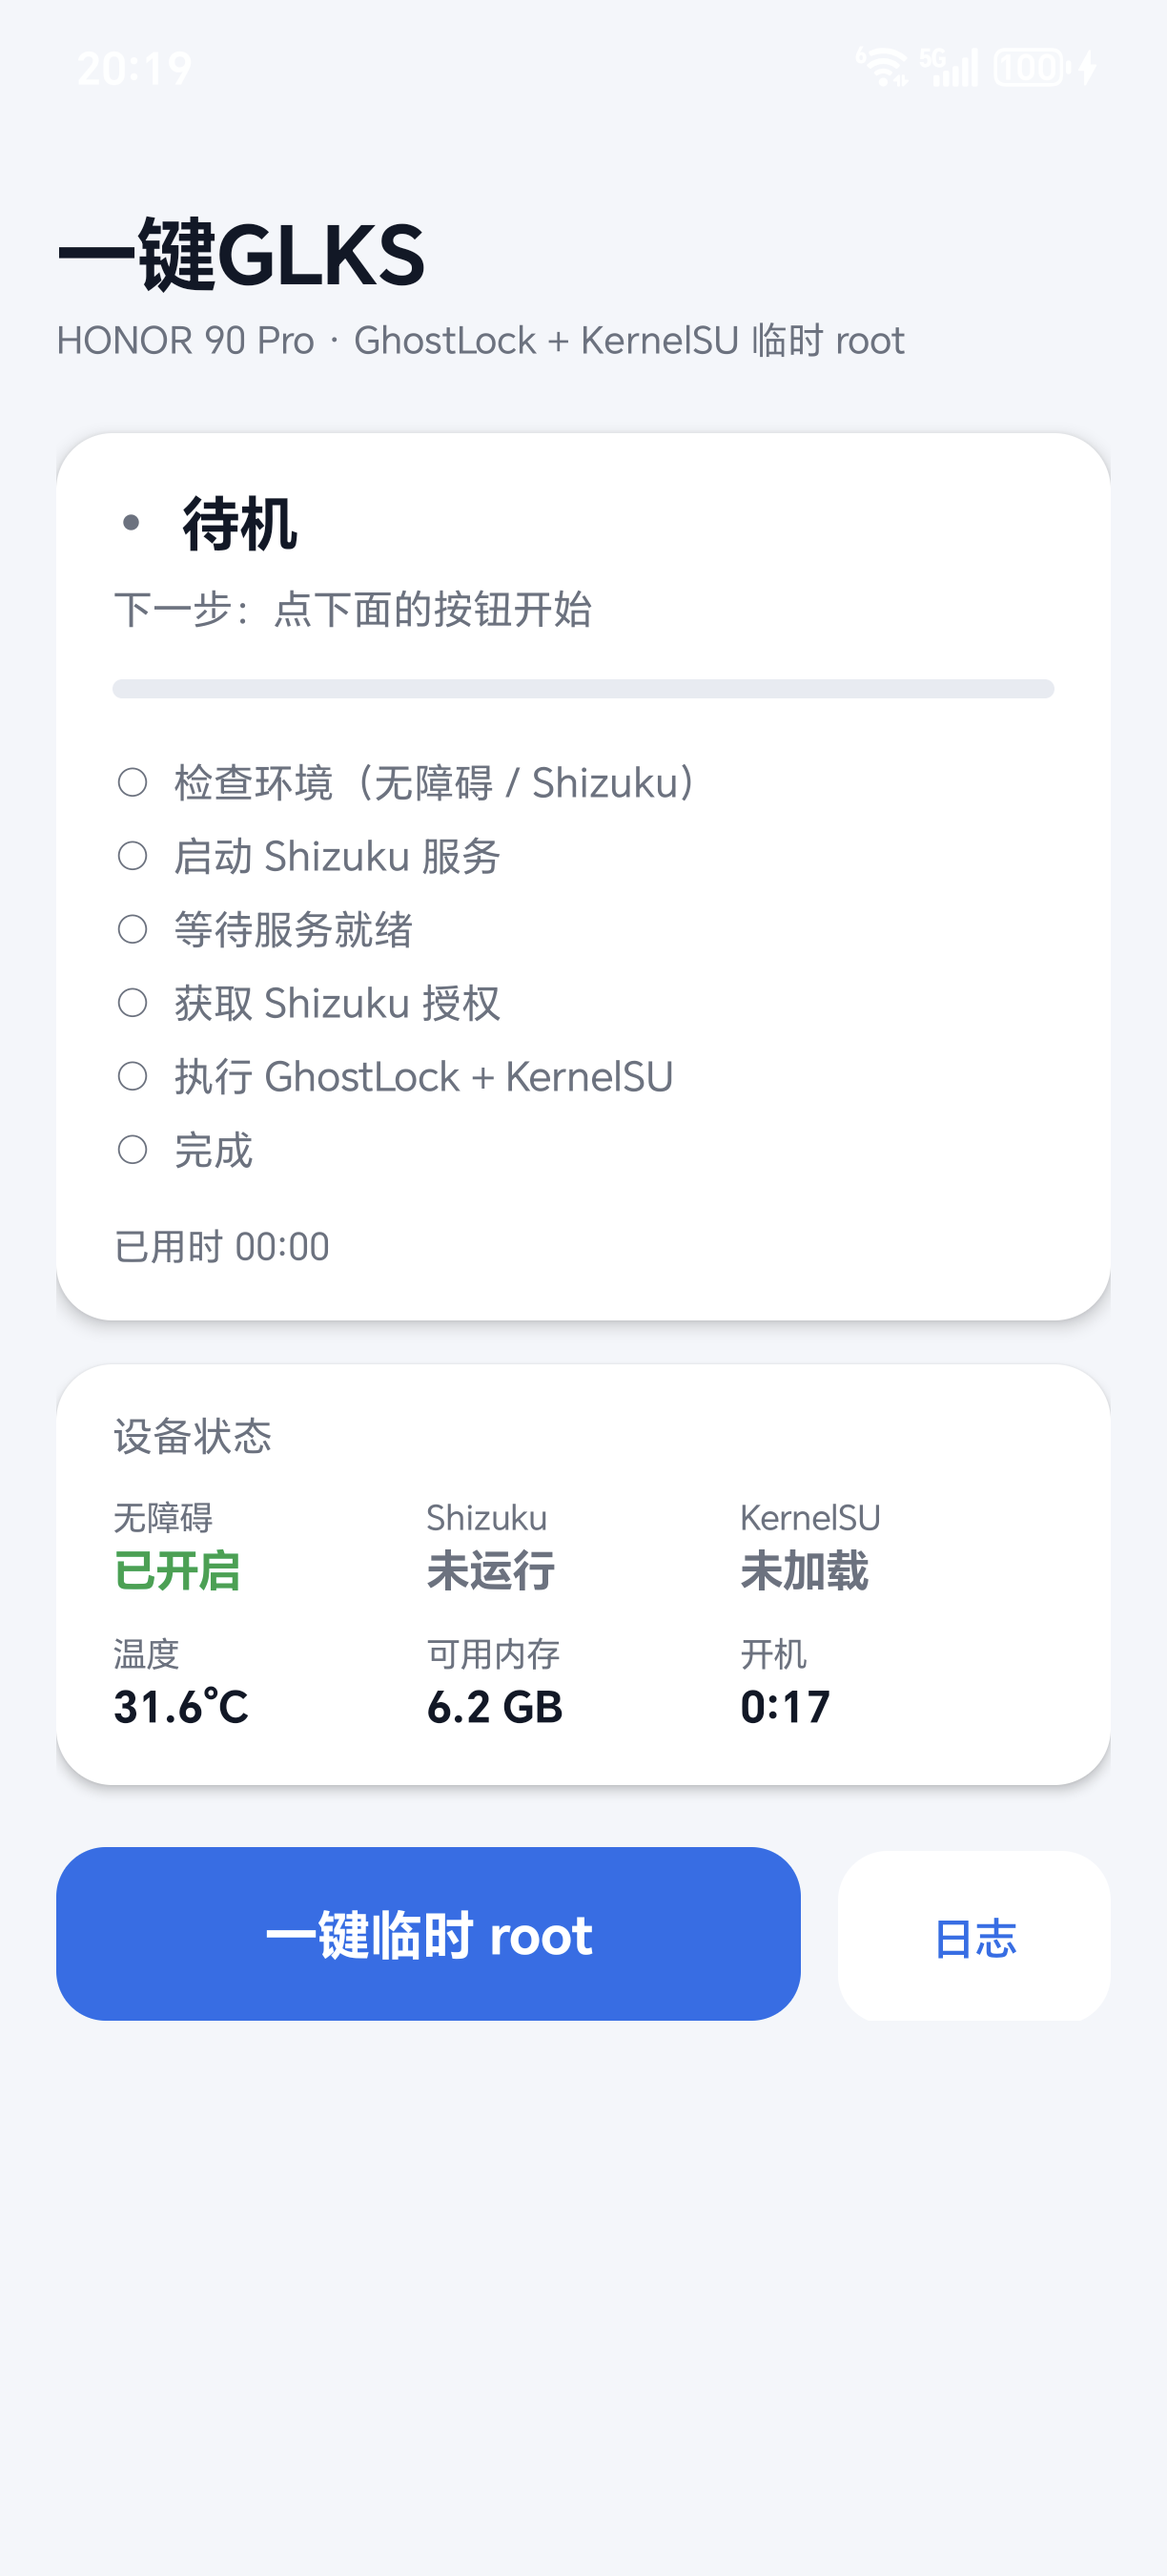
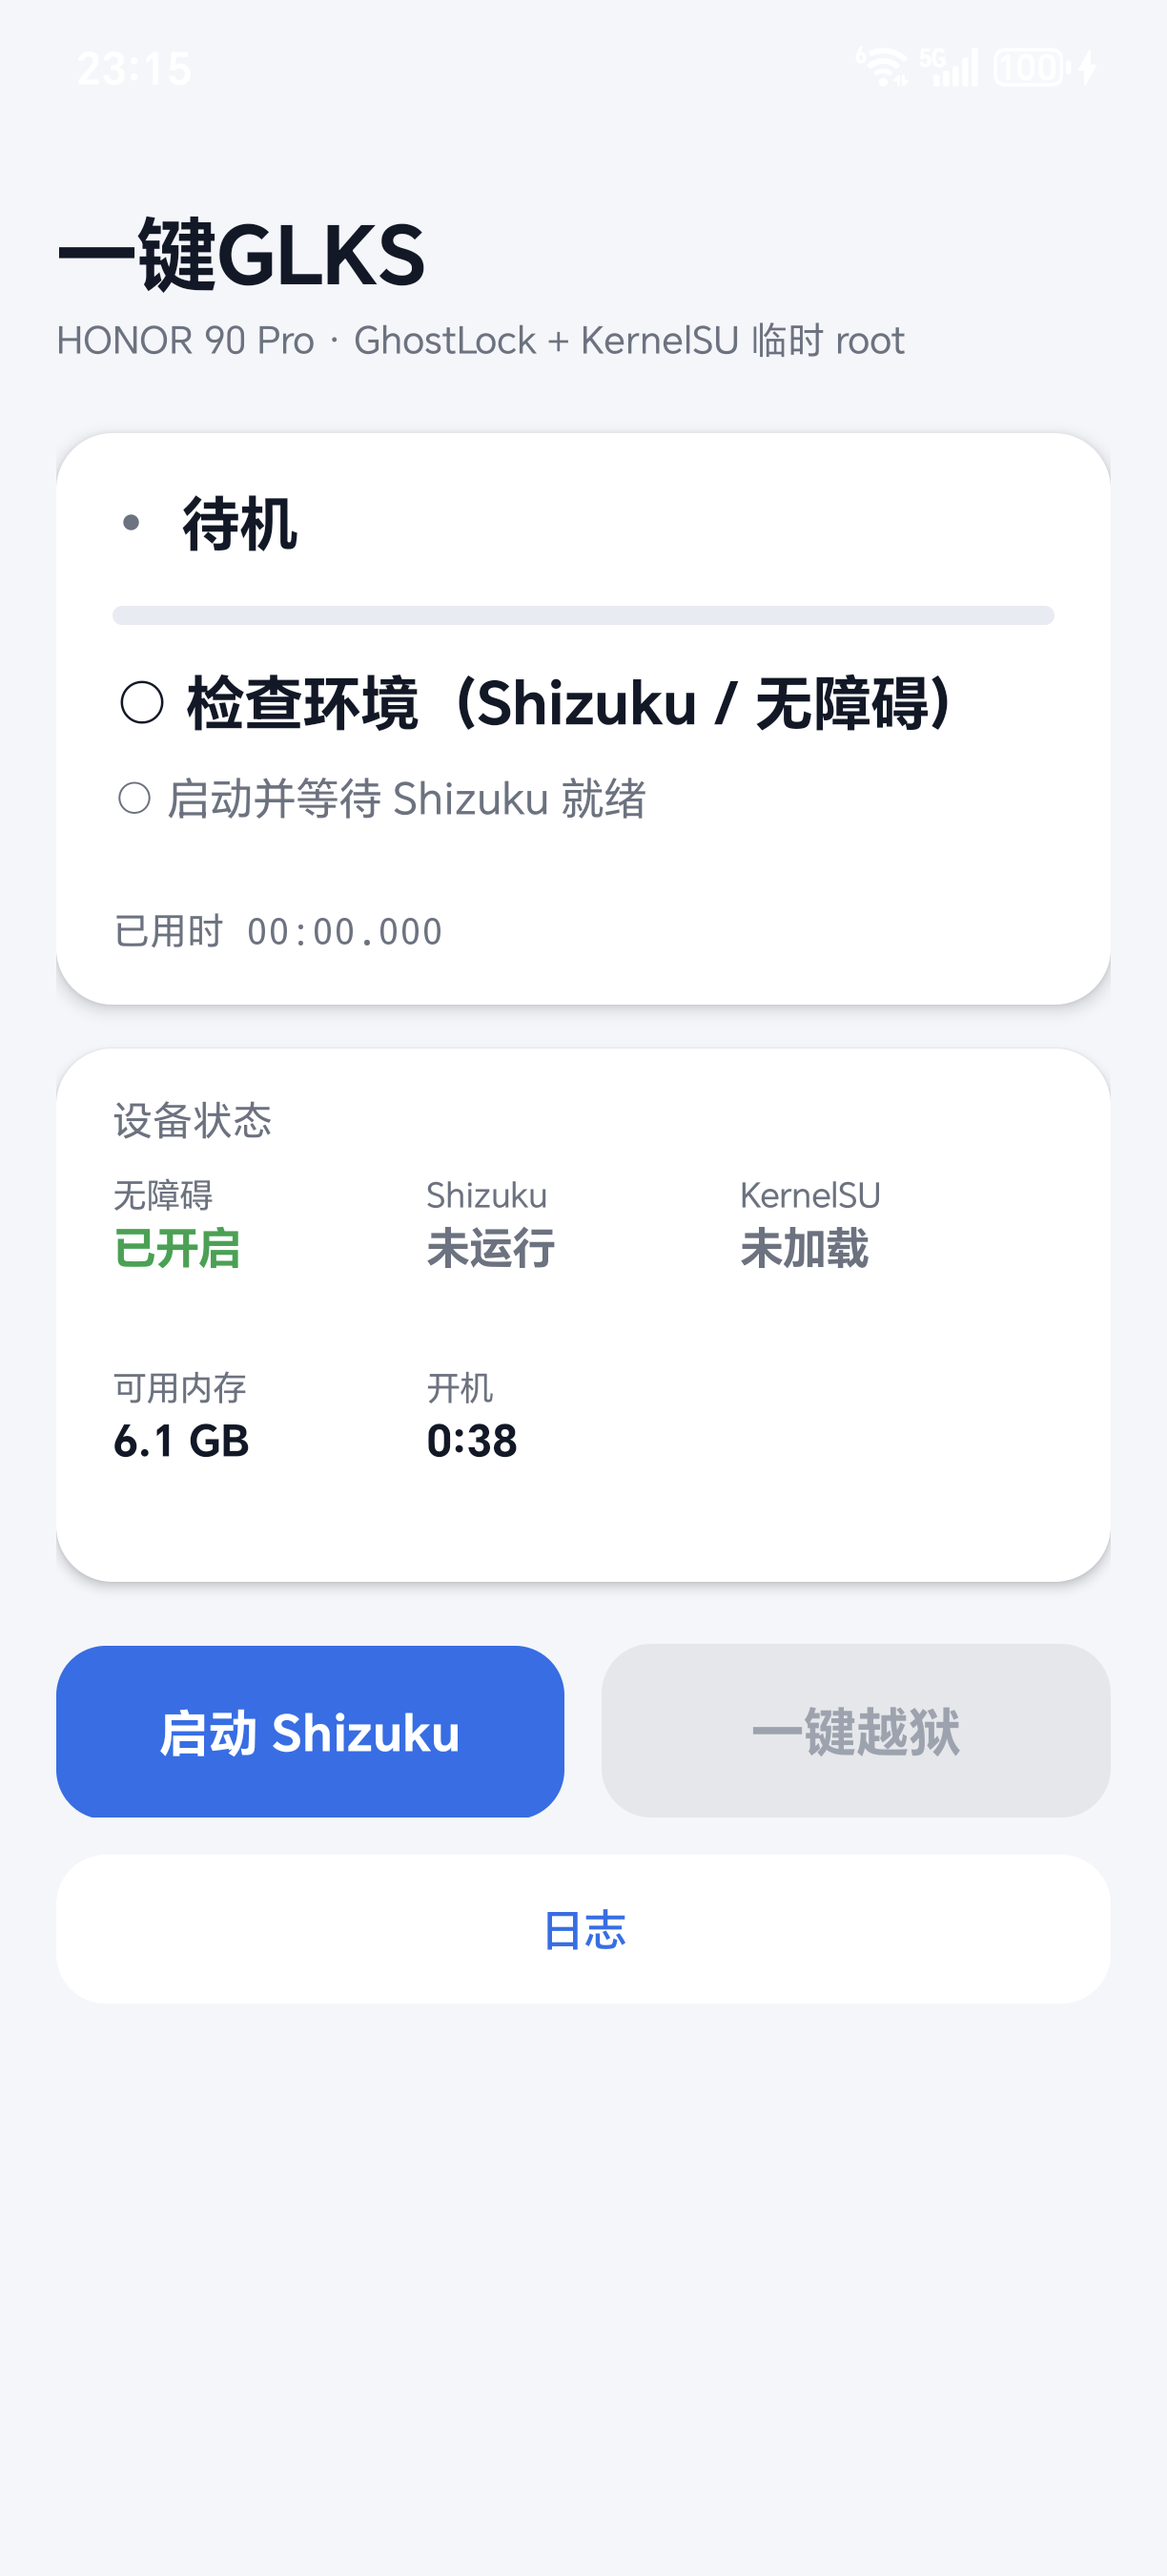
docs: zh-CN summary, refresh app screenshots (two-line task list, k/5 progress)

diff --git a/README.zh-CN.md b/README.zh-CN.md
@@ -104,3 +104,19 @@ bash ../ksu/ksu_load_ko.sh
 - `exploit/`与文档：**Apache License 2.0**（见[LICENSE](LICENSE)），与上游PoC一致。
 - `ksu/`：**GPL-2.0**（见[ksu/LICENSE](ksu/LICENSE)），`init-bootid.patch`与`ksu_rules.annotated`衍生自KernelSU的`kernel/`目录。
 
+
+## HONOR 90 Pro（REP-AN00）移植、一键 App 与 C1 fire 分析
+
+本 fork 新增：
+
+- `exploit/src/targets/honor-REP-AN00_9.0.0.230/`：真机内核 kallsyms + 反汇编
+  确认的偏移（见 [`docs/REP-AN00_PORT.md`](docs/REP-AN00_PORT.md)）；
+- `exploit/src/slide.c`：fire 时序修复——plant 握手到 `sched_setattr` 之间不再
+  有 O_SYNC 写，waiter 用户态 hold 提到 1ms（根因与 A/B 证据见
+  [`docs/C1_FIRE_ROOTCAUSE.md`](docs/C1_FIRE_ROOTCAUSE.md)）；
+- `onestep-app/`：一键 App（Shizuku + GhostLock + KernelSU LKM，8 步任务单、
+  私有套件镜像 + md5 清单）；
+- `research/`：定位 C1 fire 用的离线模型与真机脚本；
+- `docs/DEPENDENCIES.md`：编译/运行依赖。
+
+> 官方固件包及其中的内核/系统镜像不随本仓库分发，只保留分析结论与可复现工具。

diff --git a/onestep-app/README.md b/onestep-app/README.md
@@ -10,6 +10,10 @@ C1 fire 崩溃的根因与修复见 [`../docs/C1_FIRE_ROOTCAUSE.md`](../docs/C1_
 
 ## 界面
 
+| 待机 | 运行中（`4/5`） |
+|---|---|
+| ![](screenshot-home.png) | ![](screenshot-running.png) |
+
 - **状态卡片**：最上方状态（待机/检查环境/启动 Shizuku/等待就绪/申请授权/执行套件/完成/失败）、
   进度条、**两行滚动任务单**（当前步骤深色大字号 + 下一步灰色小字号，推进时向上滚动）、
   **毫秒级计时**（`已用时 00:00.000`，完成/失败冻结）。
